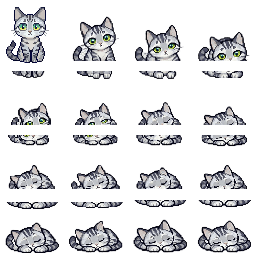
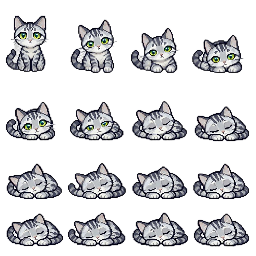
fix(cat): rebuild falling-asleep sheets from new hi-res sources; preload sheet before nap animation
- build-nap-sheets.mjs: generate the 64px falling-asleep sheets from the new
  1024x1024 4x4 transparent contact sheets (*-sleep.png) via nearest-neighbour
  downscale, replacing the badly clipped/zoomed old assets
- CatAssistant: preload idle + sleep sheets per cat; only start the nap
  animation once the sleep sheet is loaded (previously an uncached sheet made
  the 3.6s animation run blind and appear to jump straight to the held last
  frame); stale-load guard prevents a late onload from napping an already
  woken cat

diff --git a/src/components/CatAssistant.tsx b/src/components/CatAssistant.tsx
@@ -79,12 +79,51 @@ export function CatAssistant({
    *  applied the whole nap so the held frame doesn't snap back to standing. */
   const [sleepMode, setSleepMode] = useState<'sleep' | 'wake' | null>(null);
   const nappingPrevRef = useRef(napping);
+  /** Sheets confirmed loaded by the browser. The sleep animation must never
+   *  start over an uncached sheet — the 3.6s playback would run while the
+   *  image is still downloading and the first visible paint would be the
+   *  held last frame (the "nap jumps straight to sleep" bug). */
+  const loadedSheetsRef = useRef<Set<string>>(new Set());
+  const [, setLoadedSheetsTick] = useState(0);
   useEffect(() => {
-    if (napping !== nappingPrevRef.current) {
-      setSleepMode(napping ? 'sleep' : 'wake');
-      nappingPrevRef.current = napping;
+    let cancelled = false;
+    for (const url of [getCatSprite(catId), getCatSleepSprite(catId)]) {
+      if (loadedSheetsRef.current.has(url)) continue;
+      const img = new Image();
+      img.onload = () => {
+        if (cancelled) return;
+        loadedSheetsRef.current.add(url);
+        setLoadedSheetsTick((t) => t + 1);
+      };
+      img.src = url;
     }
-  }, [napping]);
+    return () => {
+      cancelled = true;
+    };
+  }, [catId]);
+  useEffect(() => {
+    if (napping === nappingPrevRef.current) return;
+    nappingPrevRef.current = napping;
+    if (!napping) {
+      // Waking: the sleep sheet is guaranteed cached (it was on display).
+      setSleepMode('wake');
+      return;
+    }
+    const sleepUrl = getCatSleepSprite(catId);
+    if (loadedSheetsRef.current.has(sleepUrl)) {
+      setSleepMode('sleep');
+      return;
+    }
+    // Sheet not cached yet — keep the idle pose until it loads, then play.
+    // nappingStateRef guards the stale-load race: if the cat was woken while
+    // the sheet was still downloading, the late onload must not start the nap.
+    const img = new Image();
+    img.onload = () => {
+      loadedSheetsRef.current.add(sleepUrl);
+      if (nappingStateRef.current) setSleepMode('sleep');
+    };
+    img.src = sleepUrl;
+  }, [napping, catId]);
   const catName = `${catId.slice(0, 1).toUpperCase()}${catId.slice(1)}`;
 
   const dragOffset = useRef({ x: 0, y: 0 });
